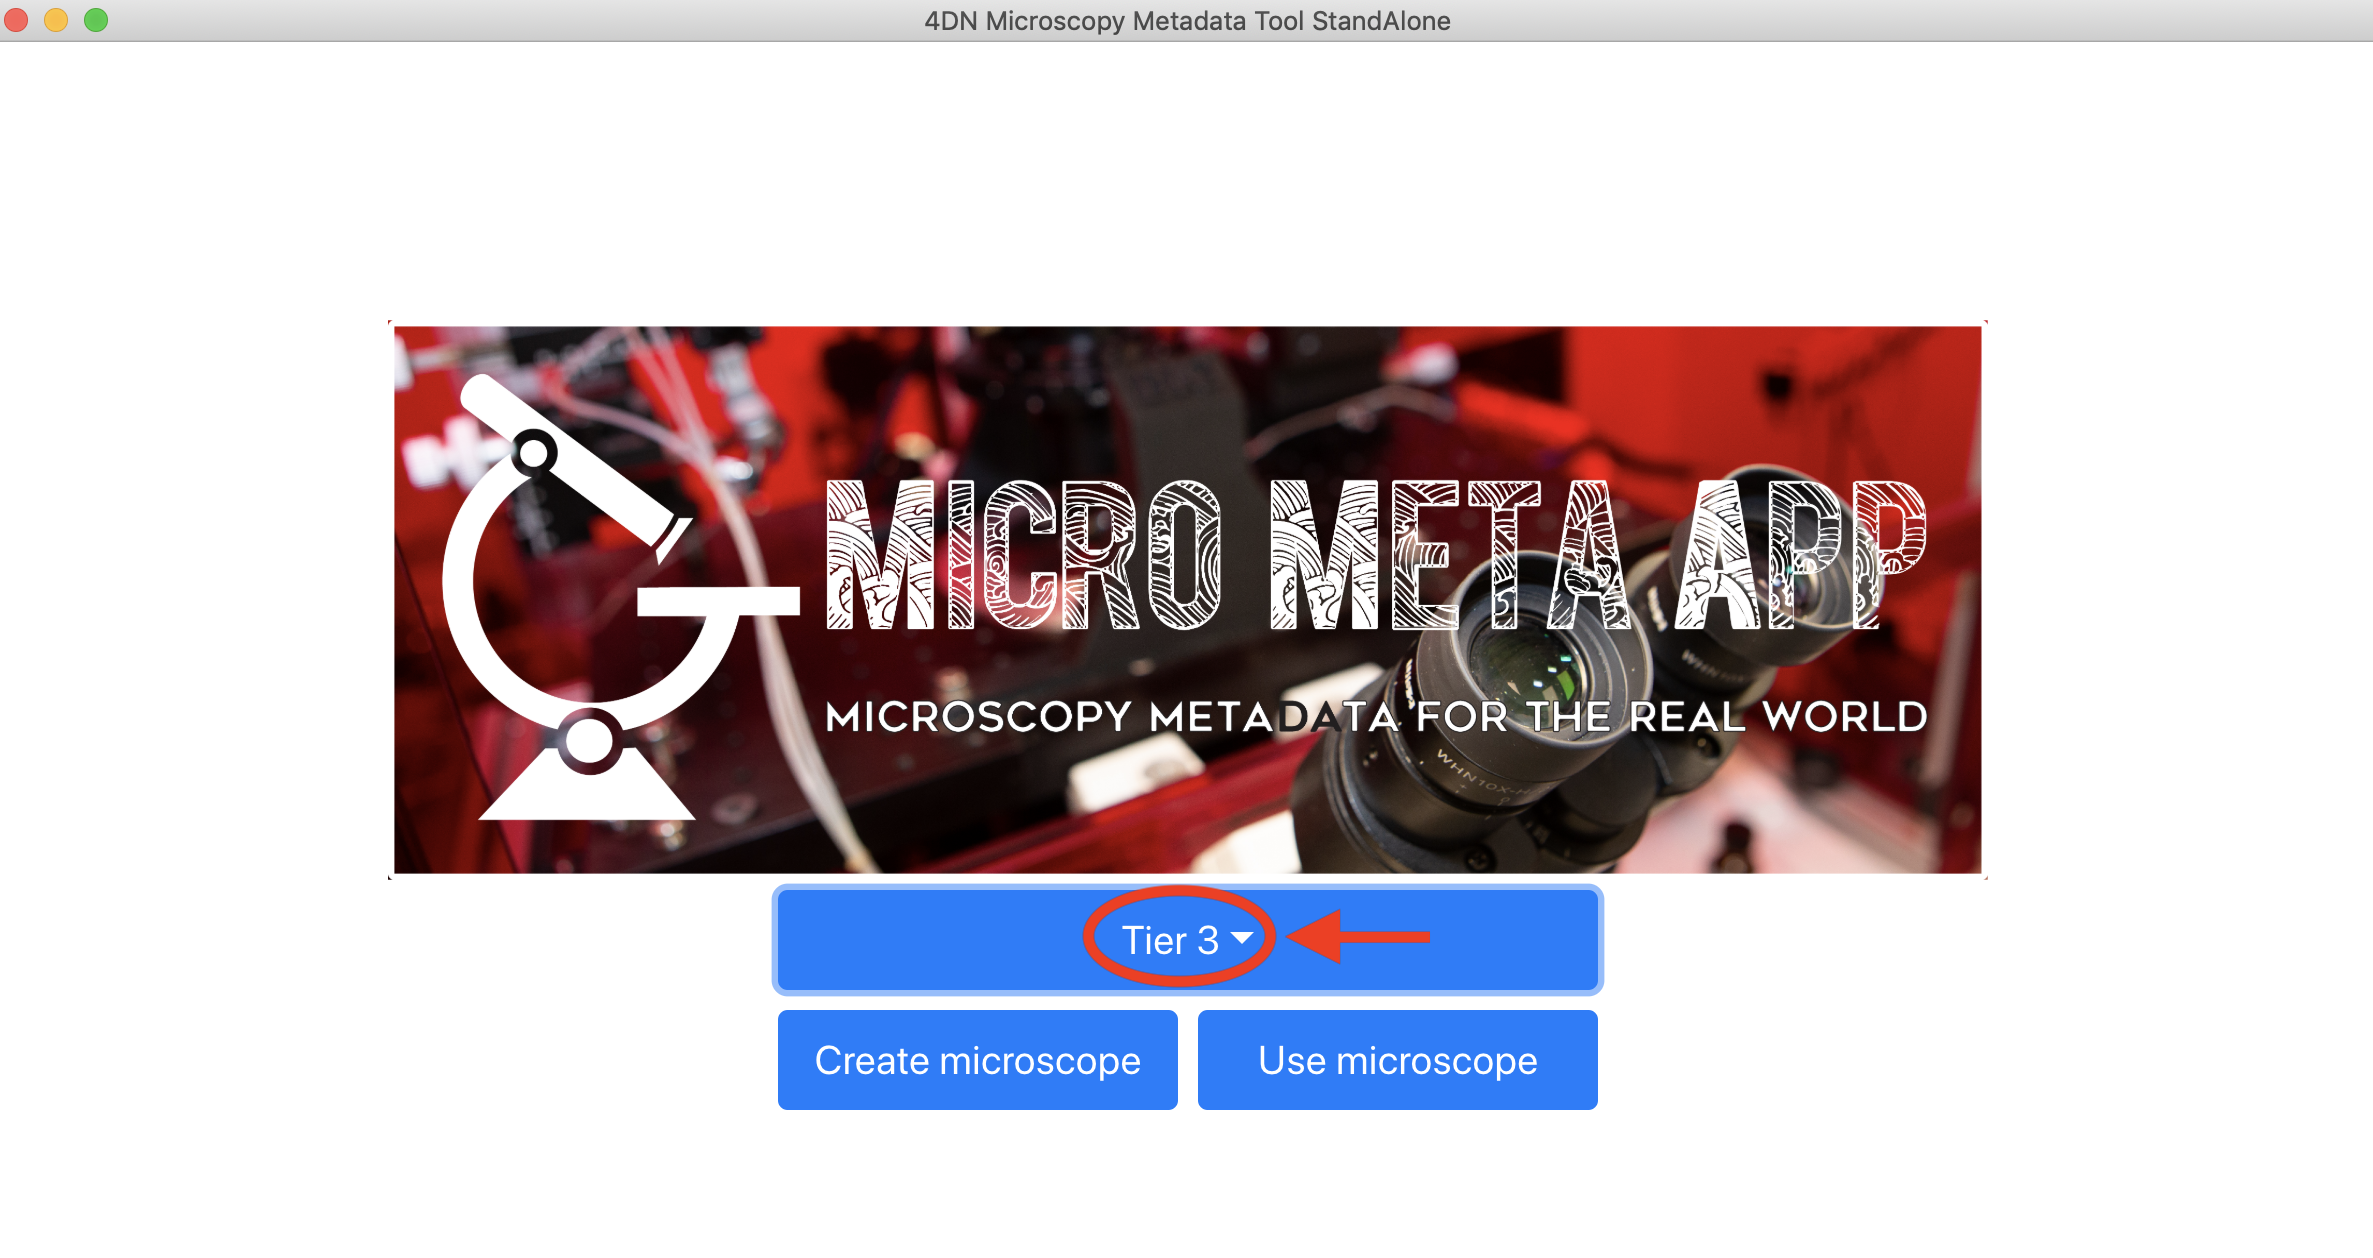
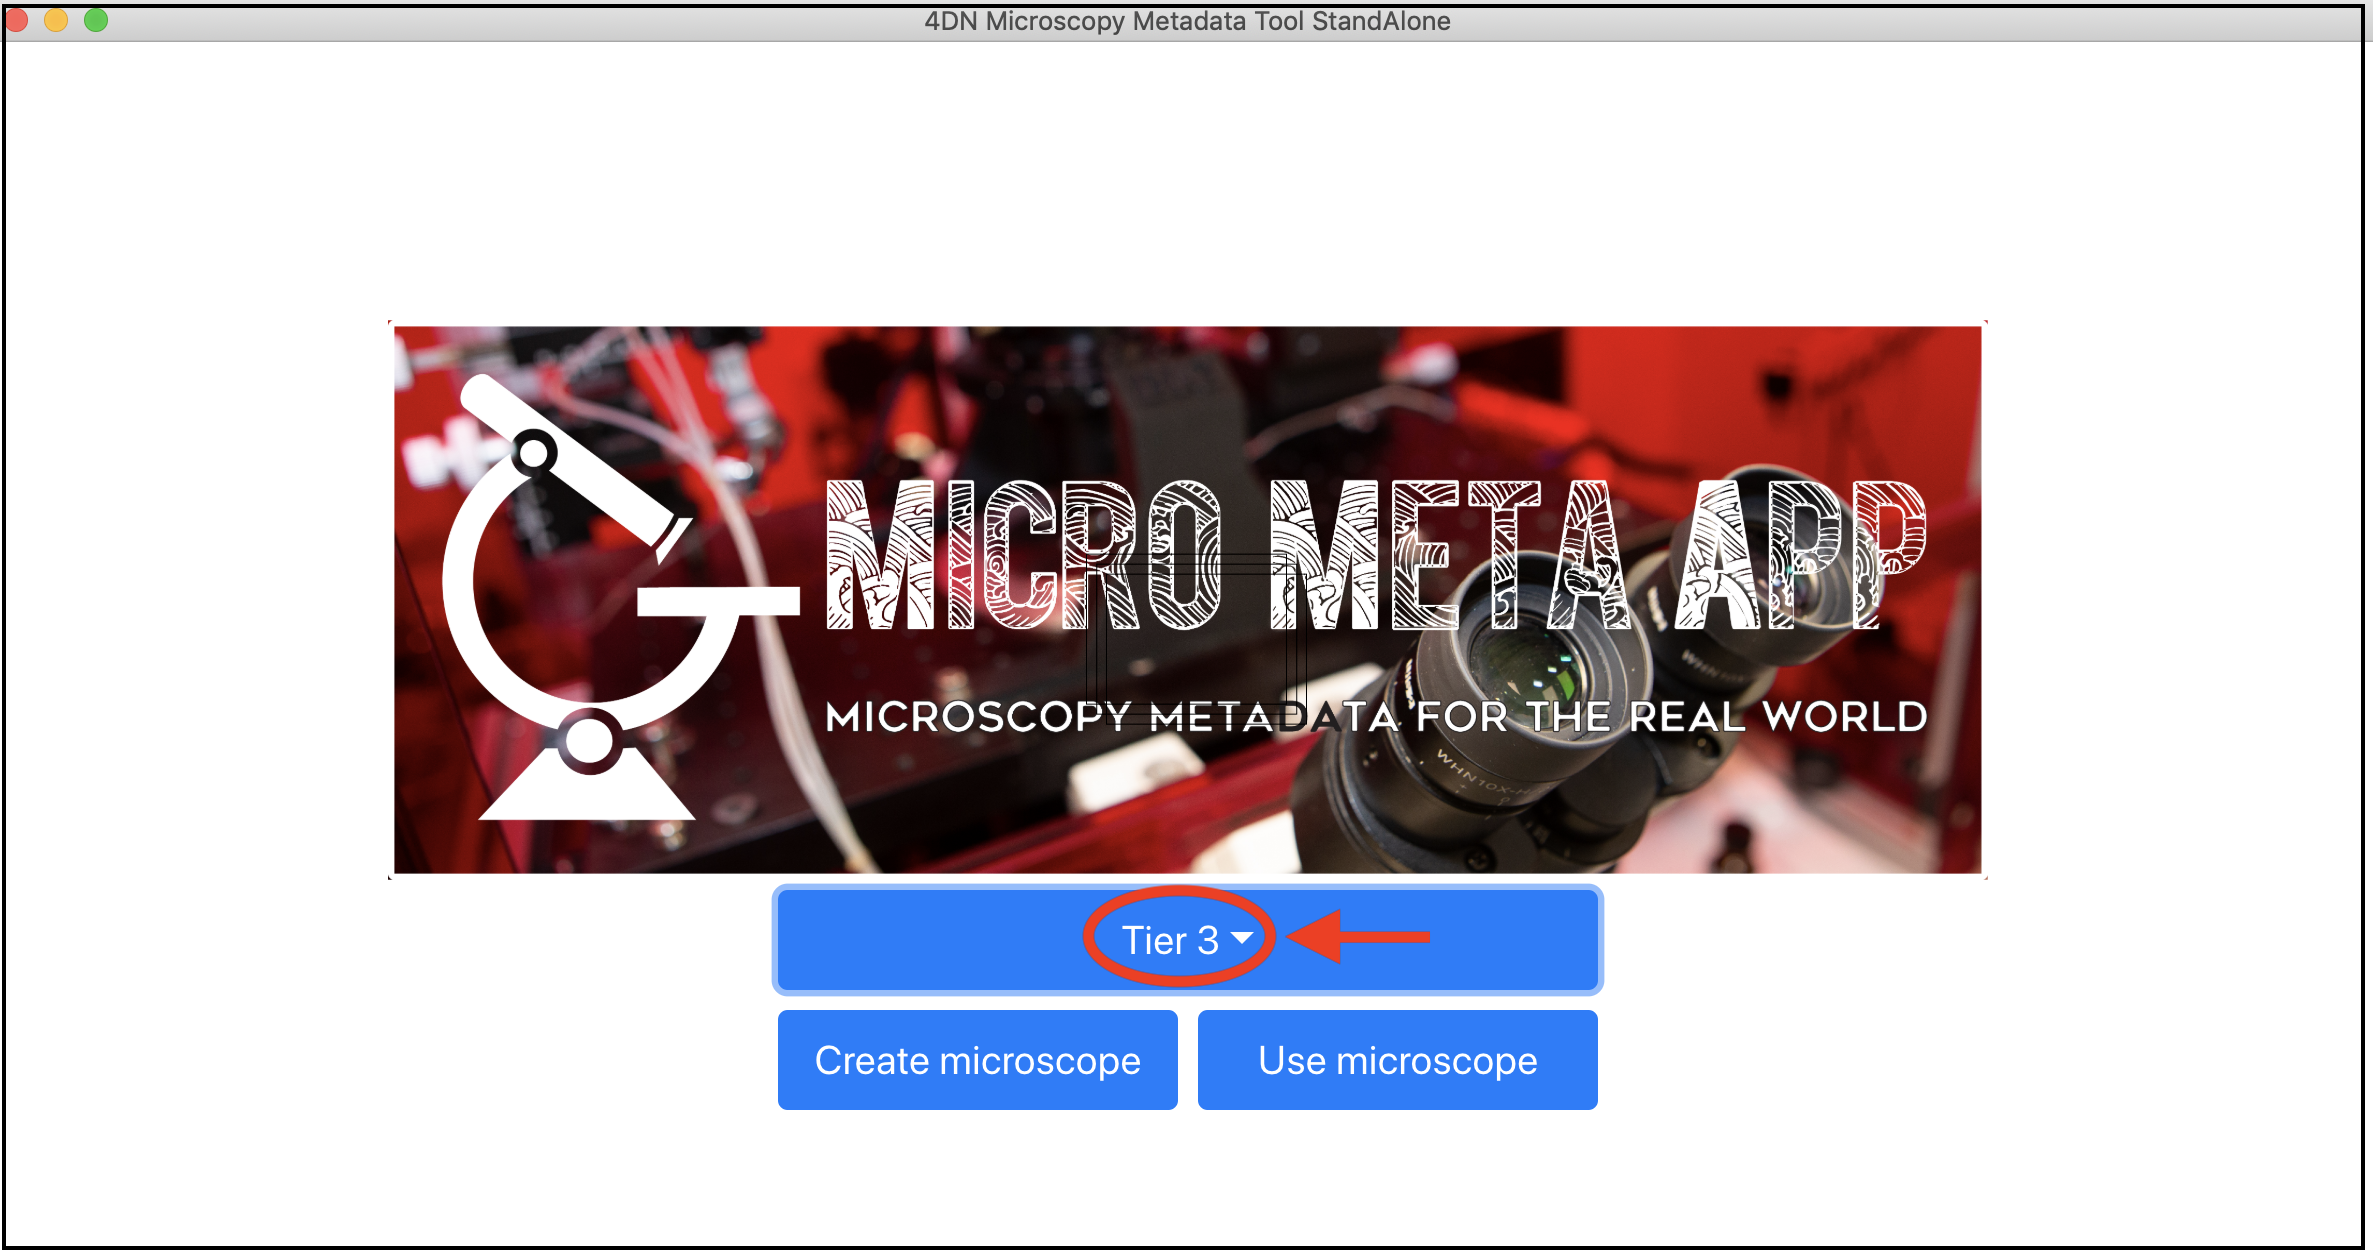
Add frames to images

diff --git a/docs/tutorial/download.rst b/docs/tutorial/download.rst
@@ -1,0 +1,49 @@
+==========================
+Downloading Micro-Meta App
+==========================
+Currently, the stand-alone version of the Micro-Meta App is made available for download from a Dropbox folder, whose link will be provided to you upon request.
+
+In order to download and launch the Micro-Meta App from the Dropbox folder, the instructions vary slightly depending on the method you use to access Dropbox. Please follow the instructions that match the method you prefer.
+
+************************************
+A - Download from the Safari browser
+************************************
+.. image:: https://github.com/WU-BIMAC/MicroMetaApp-docs/blob/master/docs/tutorial/images/download_images/Safari_Dropbox_download%20and%20install_instructions.png
+
+************************************
+B - Download from the Chrome browser
+************************************
+Step 1
+======
+.. image:: https://github.com/WU-BIMAC/MicroMetaApp-docs/blob/master/docs/tutorial/images/download_images/Chrome_Dropbox_download%20and%20install_instructions_1.png
+
+Step 2
+======
+.. image:: https://github.com/WU-BIMAC/MicroMetaApp-docs/blob/master/docs/tutorial/images/download_images/Chrome_Dropbox_download%20and%20install_instructions_2.png
+
+Step 3
+======
+.. image:: https://github.com/WU-BIMAC/MicroMetaApp-docs/blob/master/docs/tutorial/images/download_images/Chrome_Dropbox_download%20and%20install_instructions_3.png
+
+Step 4
+======
+.. image:: https://github.com/WU-BIMAC/MicroMetaApp-docs/blob/master/docs/tutorial/images/download_images/Chrome_Dropbox_download%20and%20install_instructions_4.png
+
+*************************************
+C - Download from the Firefox browser
+*************************************
+Step 1
+======
+.. image:: https://github.com/WU-BIMAC/MicroMetaApp-docs/blob/master/docs/tutorial/images/download_images/Firefox_Dropbox_download%20and%20install_instructions_1.png
+
+Step 2
+======
+.. image:: https://github.com/WU-BIMAC/MicroMetaApp-docs/blob/master/docs/tutorial/images/download_images/Firefox_Dropbox_download%20and%20install_instructions_2.png
+
+Step 3
+======
+.. image:: https://github.com/WU-BIMAC/MicroMetaApp-docs/blob/master/docs/tutorial/images/download_images/Firefox_Dropbox_download%20and%20install_instructions_3.png
+
+Step 4
+======
+.. image:: https://github.com/WU-BIMAC/MicroMetaApp-docs/blob/master/docs/tutorial/images/download_images/Firefox_Dropbox_download%20and%20install_instructions_4.png
